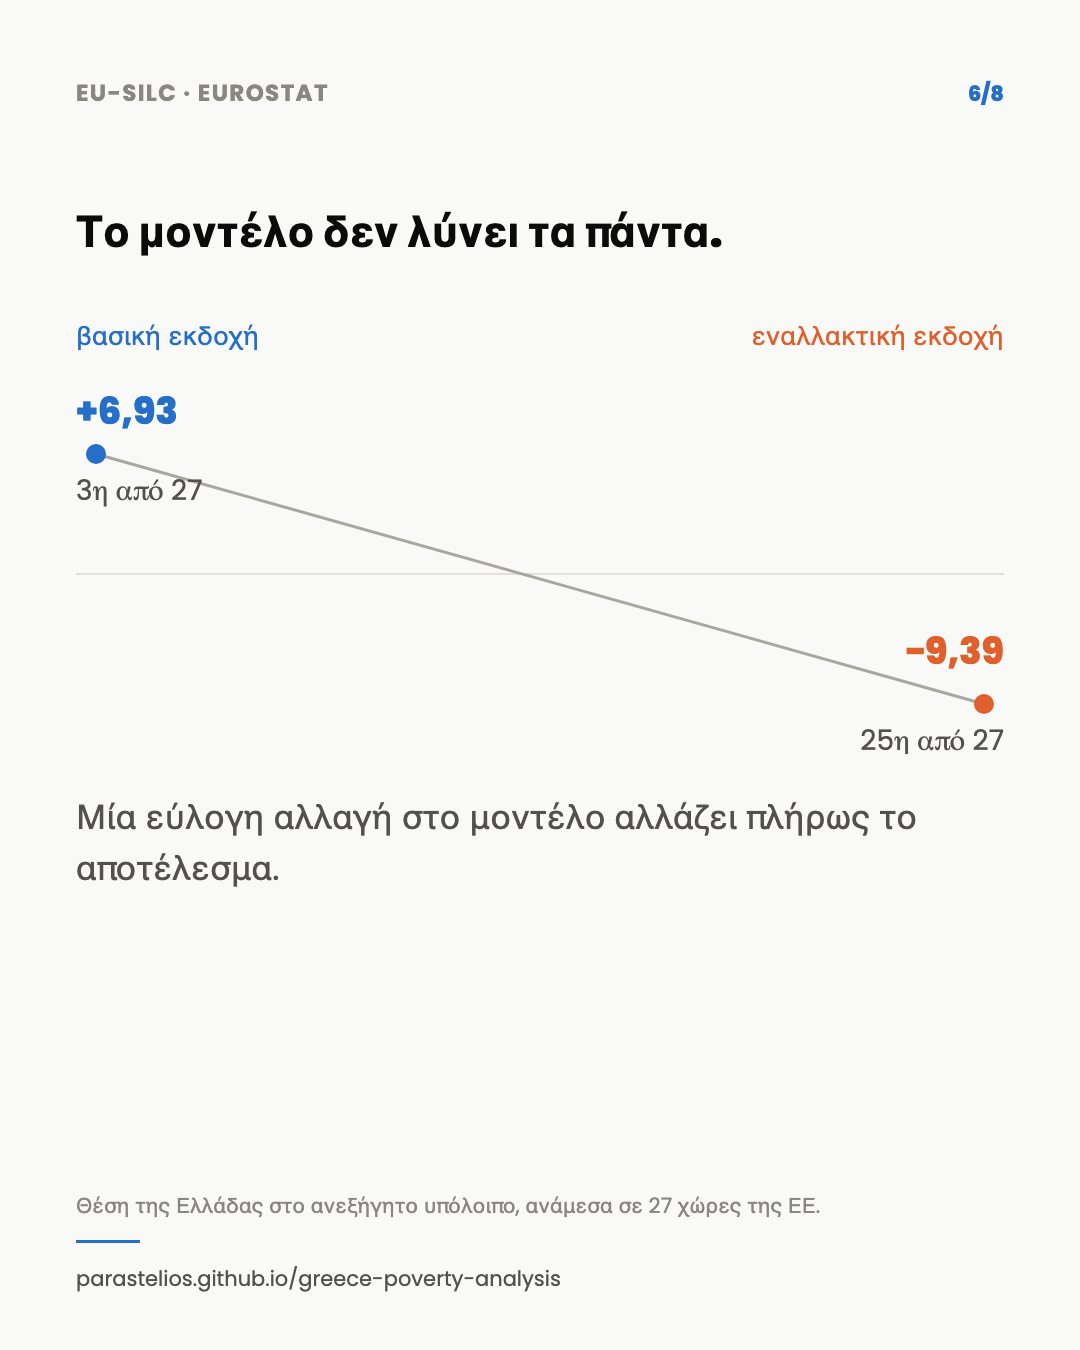
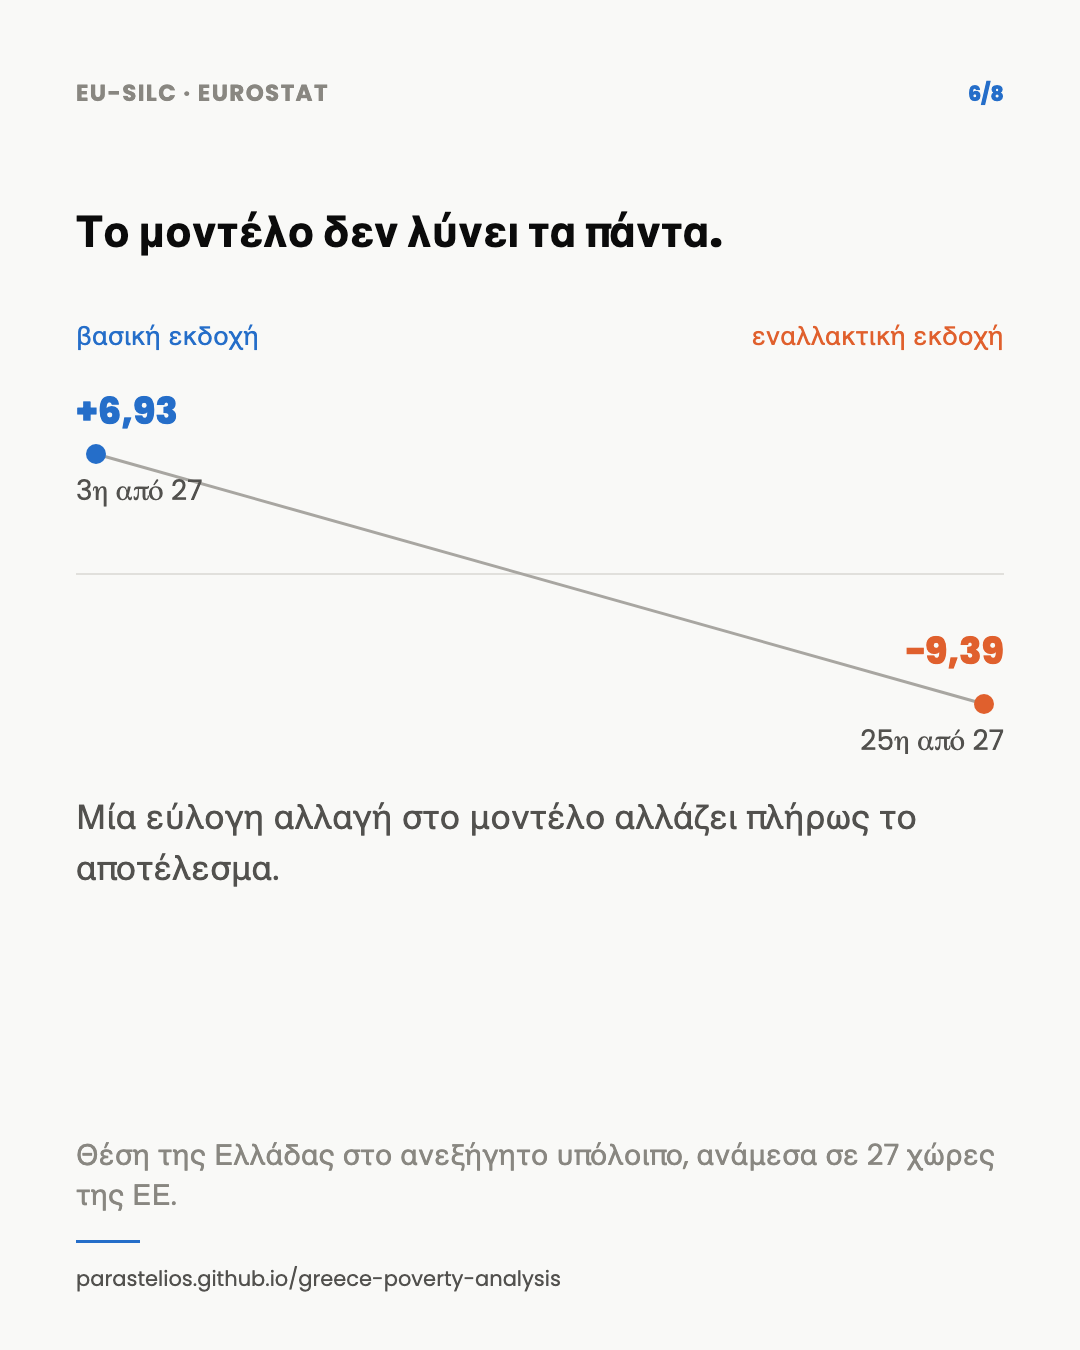
Drop the "what this measures" glossary from the carousel, enlarge the footnote instead
Neither the baked-in nor the real-HTML version of the glossary text read
well in practice. Removed it entirely (cards 1/2/4/5/6 back to pure
poster style, uniform with 3/7/8) and used the freed vertical space to
substantially enlarge each card's own footnote caveat -- the "small grey
letters at the bottom" -- from 21px to 29px in the source image.

Changed region(s): [[0.0611, 0.84, 0.9167, 0.9022]]

diff --git a/site/el.html b/site/el.html
@@ -102,13 +102,9 @@ footer a{color:var(--text-secondary)}
   -webkit-overflow-scrolling:touch;scrollbar-width:none;padding:2px 2px 4px;margin:0;
   list-style:none}
 .carousel-track::-webkit-scrollbar{display:none}
-.carousel-slide{display:flex;flex-direction:column;flex:0 0 76%;scroll-snap-align:start;
-  margin:0;border-radius:14px;overflow:hidden;border:1px solid var(--border);
-  background:var(--surface-1)}
+.carousel-slide{flex:0 0 76%;scroll-snap-align:start;margin:0;border-radius:14px;
+  overflow:hidden;border:1px solid var(--border);background:var(--surface-1)}
 .carousel-slide img{display:block;width:100%;height:auto;aspect-ratio:4/5;object-fit:cover}
-.card-note{padding:16px 18px 18px;font-size:17px;line-height:1.55;color:var(--text-secondary)}
-.card-note b{display:block;margin-bottom:6px;color:var(--text-primary)}
-.card-note .lfs{display:block;margin-top:8px;font-style:italic;font-size:15px;color:var(--text-muted)}
 .car-arrow{position:absolute;top:50%;transform:translateY(-50%);width:38px;height:38px;
   border-radius:50%;border:1px solid var(--border);background:var(--surface-1);
   color:var(--text-primary);font-size:18px;line-height:1;cursor:pointer;display:flex;
@@ -179,12 +175,12 @@ footer a{color:var(--text-secondary)}
   <div class="carousel-wrap">
     <div class="carousel" role="region" aria-roledescription="carousel" aria-label="Η ιστορία σε οκτώ κάρτες">
       <ul class="carousel-track" id="car-el" tabindex="0">
-        <li class="carousel-slide"><img src="assets/carousel/el-1.png" width="1080" height="1350" loading="lazy" alt="Η ανάκαμψη θεωρείται δεδομένη. Τα νοικοκυριά διαφωνούν. 66,7% των νοικοκυριών δηλώνουν οικονομική δυσκολία, η υψηλότερη τιμή στην ΕΕ, ενώ η εισοδηματική φτώχεια (AROP) είναι 19,6%, στην 7η θέση από τις 27 χώρες."><div class="card-note"><b>Τι μετρά:</b>Δηλωμένη δυσκολία: νοικοκυριά που δηλώνουν ότι τα βγάζουν πέρα «με δυσκολία» ή «με μεγάλη δυσκολία» (έρευνα EU-SILC). AROP: εισόδημα κάτω από το 60% του εθνικού διάμεσου ισοδύναμου εισοδήματος.</div></li>
-        <li class="carousel-slide"><img src="assets/carousel/el-2.png" width="1080" height="1350" loading="lazy" alt="Η δυσκολία δεν μπορεί να απορριφθεί ως απλή απαισιοδοξία. Τρεις δείκτες υλικής δυσκολίας — απρόοπτα έξοδα, θέρμανση, βασικές ανάγκες — κινούνται μαζί με τη δηλωμένη δυσκολία, με συσχετίσεις από 0,87 έως 0,94, 2015–2024."><div class="card-note"><b>Τι μετρά:</b>Συσχέτιση κοντά στο 1 σημαίνει ότι οι δύο σειρές κινούνται σχεδόν παράλληλα στον χρόνο &mdash; όχι ότι η μία προκαλεί την άλλη.</div></li>
+        <li class="carousel-slide"><img src="assets/carousel/el-1.png" width="1080" height="1350" loading="lazy" alt="Η ανάκαμψη θεωρείται δεδομένη. Τα νοικοκυριά διαφωνούν. 66,7% των νοικοκυριών δηλώνουν οικονομική δυσκολία, η υψηλότερη τιμή στην ΕΕ, ενώ η εισοδηματική φτώχεια (AROP) είναι 19,6%, στην 7η θέση από τις 27 χώρες."></li>
+        <li class="carousel-slide"><img src="assets/carousel/el-2.png" width="1080" height="1350" loading="lazy" alt="Η δυσκολία δεν μπορεί να απορριφθεί ως απλή απαισιοδοξία. Τρεις δείκτες υλικής δυσκολίας — απρόοπτα έξοδα, θέρμανση, βασικές ανάγκες — κινούνται μαζί με τη δηλωμένη δυσκολία, με συσχετίσεις από 0,87 έως 0,94, 2015–2024."></li>
         <li class="carousel-slide"><img src="assets/carousel/el-3.png" width="1080" height="1350" loading="lazy" alt="Ο πήχης έπεσε μαζί με τη χώρα. Το 2014 η επίσημη φτώχεια ήταν 22,1%, όμως με σταθερό το όριο του 2008 θα είχε φτάσει το 40,6% την ίδια χρονιά."></li>
-        <li class="carousel-slide"><img src="assets/carousel/el-4.png" width="1080" height="1350" loading="lazy" alt="Η απασχόληση βελτιώθηκε. Η οικονομική ασφάλεια όχι. Από το 2015 ως το 2024, η απασχόληση βελτιώθηκε σημαντικά, οι πραγματικοί μισθοί έπεσαν στο 68 από το 100, και η στεγαστική πίεση παραμένει στο 28,9%, πολύ πάνω από τη διάμεση τιμή της ΕΕ."><div class="card-note"><b>Τι μετρά:</b>Πραγματικοί μισθοί: δείκτης έναντι του 2008 (2008=100), προσαρμοσμένος στον πληθωρισμό. Στεγαστική πίεση: μερίδιο πληθυσμού με κόστος στέγασης πάνω από το 40% του διαθέσιμου εισοδήματος.</div></li>
-        <li class="carousel-slide"><img src="assets/carousel/el-5.png" width="1080" height="1350" loading="lazy" alt="Η κρίση δεν τελείωσε όταν έπεσε η ανεργία. Η Ελλάδα είναι 1η από τις 27 χώρες της ΕΕ στη συσσωρευμένη ανεργία, 2η στα χρόνια μισθών κάτω από το 2008, και 1η στην επιδείνωση του κόστους στέγασης, 2009–2024."><div class="card-note"><b>Τι μετρά:</b>Συσσωρευμένη ανεργία: άθροισμα, από το 2009, των ετήσιων υπερβάσεων πάνω από το επίπεδο ανεργίας που είχε τότε κάθε χώρα.<span class="lfs">Εναρμονισμένη, αναδρομικά διορθωμένη σειρά EU-LFS, 2009&ndash;2024.</span></div></li>
-        <li class="carousel-slide"><img src="assets/carousel/el-6.png" width="1080" height="1350" loading="lazy" alt="Το μοντέλο δεν λύνει τα πάντα. Η θέση της Ελλάδας στο ανεξήγητο υπόλοιπο μετακινείται από την 3η στην 25η θέση μεταξύ 27 χωρών, ανάλογα με μία εύλογη αλλαγή στο μοντέλο."><div class="card-note"><b>Τι μετρά:</b>Υπόλοιπο = πραγματική μείον προβλεπόμενη δυσκολία, σε ποσοστιαίες μονάδες.</div></li>
+        <li class="carousel-slide"><img src="assets/carousel/el-4.png" width="1080" height="1350" loading="lazy" alt="Η απασχόληση βελτιώθηκε. Η οικονομική ασφάλεια όχι. Από το 2015 ως το 2024, η απασχόληση βελτιώθηκε σημαντικά, οι πραγματικοί μισθοί έπεσαν στο 68 από το 100, και η στεγαστική πίεση παραμένει στο 28,9%, πολύ πάνω από τη διάμεση τιμή της ΕΕ."></li>
+        <li class="carousel-slide"><img src="assets/carousel/el-5.png" width="1080" height="1350" loading="lazy" alt="Η κρίση δεν τελείωσε όταν έπεσε η ανεργία. Η Ελλάδα είναι 1η από τις 27 χώρες της ΕΕ στη συσσωρευμένη ανεργία, 2η στα χρόνια μισθών κάτω από το 2008, και 1η στην επιδείνωση του κόστους στέγασης, 2009–2024."></li>
+        <li class="carousel-slide"><img src="assets/carousel/el-6.png" width="1080" height="1350" loading="lazy" alt="Το μοντέλο δεν λύνει τα πάντα. Η θέση της Ελλάδας στο ανεξήγητο υπόλοιπο μετακινείται από την 3η στην 25η θέση μεταξύ 27 χωρών, ανάλογα με μία εύλογη αλλαγή στο μοντέλο."></li>
         <li class="carousel-slide"><img src="assets/carousel/el-7.png" width="1080" height="1350" loading="lazy" alt="Το ανεξήγητο υπόλοιπο δεν αποδεικνύει «απαισιοδοξία». Φορολογία, πλούτος, εμπιστοσύνη, υγεία και μετανάστευση παραμένουν πιθανοί παράγοντες, όχι αποδεδειγμένες αιτίες."></li>
         <li class="carousel-slide"><img src="assets/carousel/el-8.png" width="1080" height="1350" loading="lazy" alt="Ορισμένοι δείκτες βελτιώθηκαν. Η κοινωνία δεν ανέκαμψε μαζί τους. Δεν μπορούμε να πιστοποιούμε την ανάκαμψη με τους δείκτες και να μεταφέρουμε την ευθύνη στην ψυχολογία των νοικοκυριών όταν η εμπειρία τους διαφωνεί."></li>
       </ul>

diff --git a/site/index.html b/site/index.html
@@ -102,13 +102,9 @@ footer a{color:var(--text-secondary)}
   -webkit-overflow-scrolling:touch;scrollbar-width:none;padding:2px 2px 4px;margin:0;
   list-style:none}
 .carousel-track::-webkit-scrollbar{display:none}
-.carousel-slide{display:flex;flex-direction:column;flex:0 0 76%;scroll-snap-align:start;
-  margin:0;border-radius:14px;overflow:hidden;border:1px solid var(--border);
-  background:var(--surface-1)}
+.carousel-slide{flex:0 0 76%;scroll-snap-align:start;margin:0;border-radius:14px;
+  overflow:hidden;border:1px solid var(--border);background:var(--surface-1)}
 .carousel-slide img{display:block;width:100%;height:auto;aspect-ratio:4/5;object-fit:cover}
-.card-note{padding:16px 18px 18px;font-size:17px;line-height:1.55;color:var(--text-secondary)}
-.card-note b{display:block;margin-bottom:6px;color:var(--text-primary)}
-.card-note .lfs{display:block;margin-top:8px;font-style:italic;font-size:15px;color:var(--text-muted)}
 .car-arrow{position:absolute;top:50%;transform:translateY(-50%);width:38px;height:38px;
   border-radius:50%;border:1px solid var(--border);background:var(--surface-1);
   color:var(--text-primary);font-size:18px;line-height:1;cursor:pointer;display:flex;
@@ -179,12 +175,12 @@ footer a{color:var(--text-secondary)}
   <div class="carousel-wrap">
     <div class="carousel" role="region" aria-roledescription="carousel" aria-label="The story in eight cards">
       <ul class="carousel-track" id="car-en" tabindex="0">
-        <li class="carousel-slide"><img src="assets/carousel/en-1.png" width="1080" height="1350" loading="lazy" alt="Recovery is taken as a given. Households disagree. 66.7% of households report economic hardship, the highest share in the EU, while income poverty (AROP) is 19.6%, 7th highest of 27 countries."><div class="card-note"><b>What this measures:</b>Reported hardship: households who say they make ends meet &ldquo;with difficulty&rdquo; or &ldquo;with great difficulty&rdquo; (EU-SILC survey). AROP: income below 60% of the national median equivalised income.</div></li>
-        <li class="carousel-slide"><img src="assets/carousel/en-2.png" width="1080" height="1350" loading="lazy" alt="Reported hardship cannot be dismissed as pessimism alone. Three material-hardship indicators — unexpected expense, heating, basic needs — move together with reported hardship, correlations from 0.87 to 0.94, 2015–2024."><div class="card-note"><b>What this measures:</b>A correlation near 1 means the two series move almost in lockstep over time &mdash; not that one causes the other.</div></li>
+        <li class="carousel-slide"><img src="assets/carousel/en-1.png" width="1080" height="1350" loading="lazy" alt="Recovery is taken as a given. Households disagree. 66.7% of households report economic hardship, the highest share in the EU, while income poverty (AROP) is 19.6%, 7th highest of 27 countries."></li>
+        <li class="carousel-slide"><img src="assets/carousel/en-2.png" width="1080" height="1350" loading="lazy" alt="Reported hardship cannot be dismissed as pessimism alone. Three material-hardship indicators — unexpected expense, heating, basic needs — move together with reported hardship, correlations from 0.87 to 0.94, 2015–2024."></li>
         <li class="carousel-slide"><img src="assets/carousel/en-3.png" width="1080" height="1350" loading="lazy" alt="The bar fell with the country. In 2014, official poverty was 22.1%, but with the 2008 line held fixed it would have reached 40.6% that same year."></li>
-        <li class="carousel-slide"><img src="assets/carousel/en-4.png" width="1080" height="1350" loading="lazy" alt="Employment improved. Economic security did not. From 2015 to 2024, employment improved substantially, real wages fell to 68 out of 100, and housing pressure remains at 28.9%, far above the EU-country median."><div class="card-note"><b>What this measures:</b>Real wages: an inflation-adjusted index against each country&rsquo;s own 2008 level (2008=100). Housing pressure: share of population whose housing costs exceed 40% of disposable income.</div></li>
-        <li class="carousel-slide"><img src="assets/carousel/en-5.png" width="1080" height="1350" loading="lazy" alt="The crisis didn't end when unemployment fell. Greece ranks 1st of 27 EU countries on accumulated unemployment, 2nd on years of wages below 2008, and 1st on housing-cost deterioration, 2009–2024."><div class="card-note"><b>What this measures:</b>Accumulated unemployment: the sum, from 2009 onward, of each year&rsquo;s excess above that country&rsquo;s own 2009 unemployment level.<span class="lfs">Harmonized, retrospectively corrected EU-LFS series, 2009&ndash;2024.</span></div></li>
-        <li class="carousel-slide"><img src="assets/carousel/en-6.png" width="1080" height="1350" loading="lazy" alt="The model doesn't settle everything. Greece's rank on the unexplained remainder moves from 3rd to 25th of 27 countries, depending on one reasonable modelling choice."><div class="card-note"><b>What this measures:</b>Residual = actual minus predicted hardship, in percentage points.</div></li>
+        <li class="carousel-slide"><img src="assets/carousel/en-4.png" width="1080" height="1350" loading="lazy" alt="Employment improved. Economic security did not. From 2015 to 2024, employment improved substantially, real wages fell to 68 out of 100, and housing pressure remains at 28.9%, far above the EU-country median."></li>
+        <li class="carousel-slide"><img src="assets/carousel/en-5.png" width="1080" height="1350" loading="lazy" alt="The crisis didn't end when unemployment fell. Greece ranks 1st of 27 EU countries on accumulated unemployment, 2nd on years of wages below 2008, and 1st on housing-cost deterioration, 2009–2024."></li>
+        <li class="carousel-slide"><img src="assets/carousel/en-6.png" width="1080" height="1350" loading="lazy" alt="The model doesn't settle everything. Greece's rank on the unexplained remainder moves from 3rd to 25th of 27 countries, depending on one reasonable modelling choice."></li>
         <li class="carousel-slide"><img src="assets/carousel/en-7.png" width="1080" height="1350" loading="lazy" alt="The unexplained remainder is not evidence of “pessimism.” Taxation, wealth, trust, health and migration remain possible factors, not proven causes."></li>
         <li class="carousel-slide"><img src="assets/carousel/en-8.png" width="1080" height="1350" loading="lazy" alt="Some indicators improved. Society did not recover with them. We cannot certify recovery with indicators, then shift the blame onto households' psychology when their experience disagrees."></li>
       </ul>
